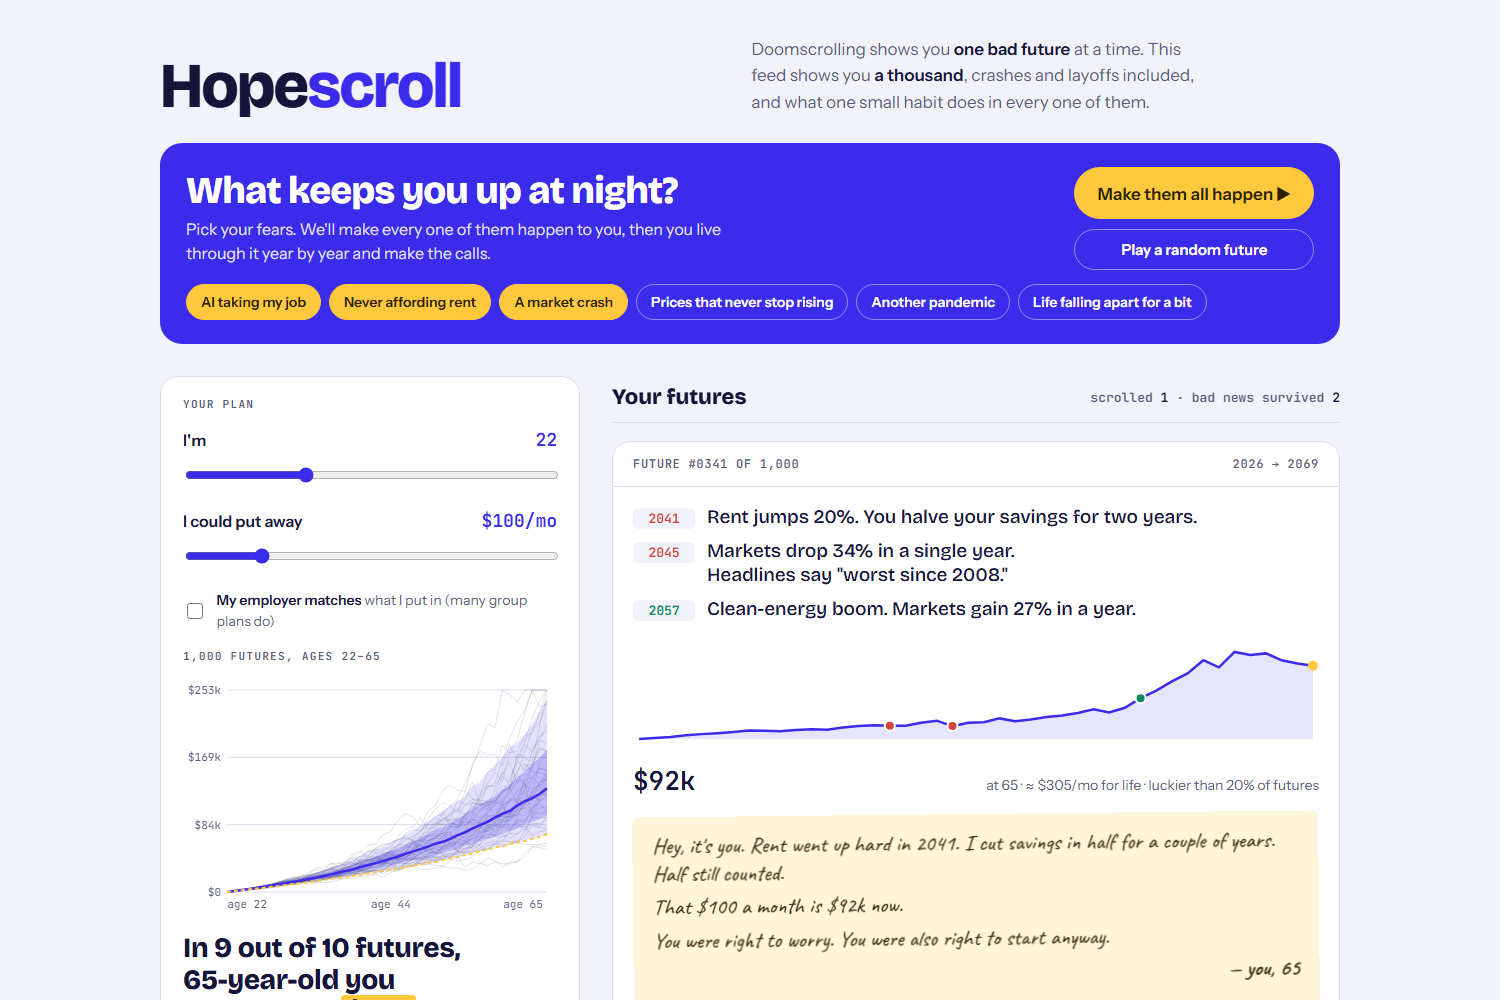
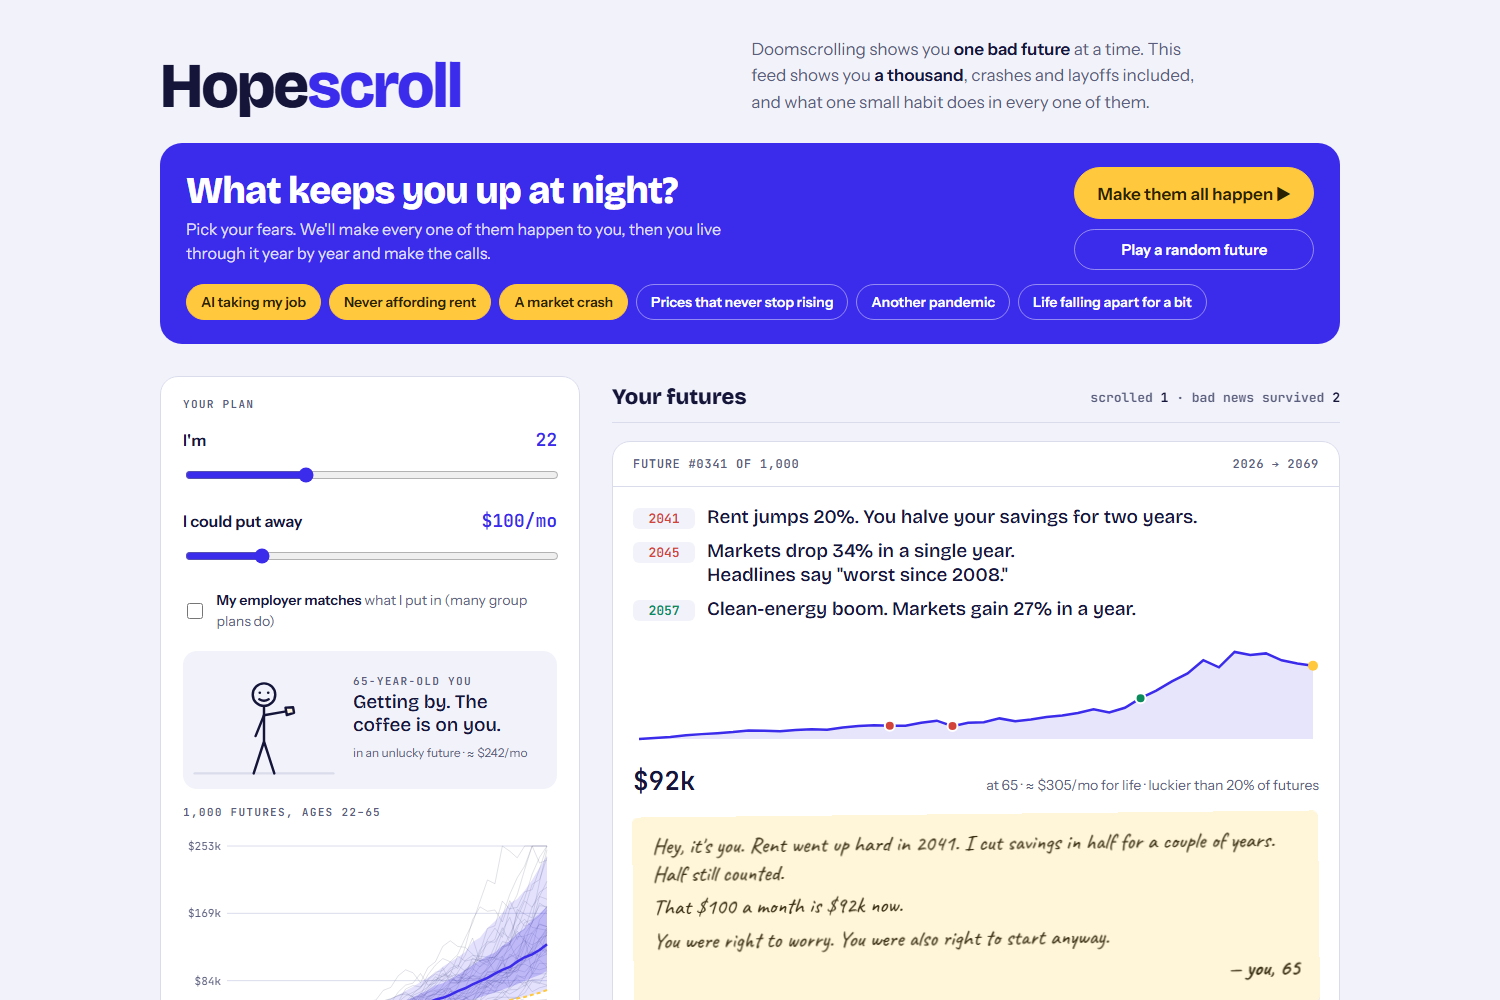
Add 65-year-old you figure that reacts to the plan

Changed region(s): [[0.1227, 0.651, 0.368, 1.0]]

diff --git a/docs/index.html b/docs/index.html
@@ -137,7 +137,30 @@ kbd{font:600 12px var(--f-mono);border:1px solid currentColor;border-radius:5px;
 .badge{font:600 12px var(--f-mono);padding:5px 10px;border-radius:999px;background:var(--sun);color:var(--sun-ink)}
 .lesson{margin:0;color:var(--muted)}
 .copied{font-size:13px;color:var(--good);margin:0}
-@media (prefers-reduced-motion:reduce){.card,.pl-event,.bar i{animation:none}}
+.you65{display:grid;grid-template-columns:150px minmax(0,1fr);gap:14px;align-items:center;background:var(--bg);border-radius:14px;padding:8px 14px 8px 6px}
+.mood{margin:4px 0 2px;font:500 19px/1.2 var(--f-display);text-wrap:balance}
+.fig{width:100%;height:auto;overflow:visible}
+.fig *{fill:none;stroke:var(--ink);stroke-width:2.6;stroke-linecap:round;stroke-linejoin:round;transition:opacity .5s,transform .6s cubic-bezier(.3,1.4,.5,1),d .5s}
+.fig .eye{fill:var(--ink);stroke:none}
+.fig .ground{stroke:var(--line)}
+.fig .sun circle{fill:var(--sun);stroke:none} .fig .rays{stroke:var(--sun)}
+.fig .cloud path:first-child{fill:var(--muted);stroke:none;opacity:.5} .fig .rain{stroke:var(--accent)}
+.fig .plant *{stroke:var(--good)} .fig .plant path:last-child{fill:var(--good)}
+.fig .suit rect{fill:var(--accent);stroke:var(--accent)} .fig .suit path{stroke:var(--accent)}
+.fig .cup{fill:var(--paper);stroke:var(--ink)}
+.fig .arm{transform-origin:80px 60px}
+.fig .sun,.fig .cloud,.fig .plant,.fig .suit,.fig .cup{opacity:0}
+.fig[data-tier="0"] .cloud,.fig[data-tier="1"] .cup,.fig[data-tier="2"] .cup,.fig[data-tier="2"] .sun,.fig[data-tier="2"] .plant,.fig[data-tier="3"] .sun,.fig[data-tier="3"] .plant,.fig[data-tier="3"] .suit{opacity:1}
+.fig .who{animation:bob 3.2s ease-in-out infinite}
+.fig[data-tier="0"] .who{animation-duration:5s;transform:translateY(2px)}
+.fig[data-tier="3"] .who{animation:hop .7s ease-in-out infinite}
+.fig .rain{animation:rain 1s linear infinite}
+.fig .rays{transform-origin:134px 24px;animation:spin 14s linear infinite}
+@keyframes bob{50%{transform:translateY(-2px)}}
+@keyframes hop{50%{transform:translateY(-7px)}}
+@keyframes rain{from{transform:translateY(-3px);opacity:1}to{transform:translateY(5px);opacity:0}}
+@keyframes spin{to{transform:rotate(360deg)}}
+@media (prefers-reduced-motion:reduce){.card,.pl-event,.bar i,.fig *{animation:none!important}}
 </style></head><body>
 
 <div class="wrap">
@@ -167,6 +190,25 @@ kbd{font:600 12px var(--f-mono);border:1px solid currentColor;border-radius:5px;
     <input id="amt" type="range" min="5" max="500" step="5" value="100">
   </div>
   <label class="toggle"><input id="match" type="checkbox"> <span><b>My employer matches</b> what I put in (many group plans do)</span></label>
+
+  <div class="you65">
+    <svg id="fig" class="fig" viewBox="0 0 160 130" role="img" aria-labelledby="mood" data-tier="1">
+      <g class="sun"><circle cx="134" cy="24" r="11"/><path class="rays" d="M134 6v-4M134 46v-4M116 24h-4M156 24h-4M121 11l-3-3M147 37l3 3M147 11l3-3M121 37l-3 3"/></g>
+      <g class="cloud"><path d="M18 32a9 9 0 0 1 16-7a8 8 0 0 1 15 3a6 6 0 0 1 0 12h-28a6 6 0 0 1-3-8z"/><path class="rain" d="M24 46l-2 6M34 46l-2 6M44 46l-2 6"/></g>
+      <line class="ground" x1="6" y1="122" x2="154" y2="122"/>
+      <g class="plant"><path d="M28 122v-16"/><path d="M28 112c-7-1-11-6-10-12c7 1 11 6 10 12zM28 108c7-1 11-6 10-12c-7 1-11 6-10 12z"/></g>
+      <g class="suit"><rect x="108" y="100" width="22" height="22" rx="3"/><path d="M114 100v-5h10v5"/></g>
+      <g class="who">
+        <circle cx="80" cy="38" r="12"/>
+        <circle class="eye" cx="75.5" cy="36" r="1.4"/><circle class="eye" cx="84.5" cy="36" r="1.4"/>
+        <path id="mouth" class="mouth" d="M75 43 Q80 46 85 43"/>
+        <path d="M80 50v38M80 88l-11 34M80 88l11 34"/>
+        <g id="armL" class="arm"><path d="M80 60v24"/></g>
+        <g id="armR" class="arm"><path d="M80 60v24"/><path class="cup" d="M76 84h8l-1 8h-6z"/></g>
+      </g>
+    </svg>
+    <div><div class="eyebrow">65-year-old you</div><p id="mood" class="mood"></p><small class="fine">in an unlucky future · ≈ <span id="moodInc"></span>/mo</small></div>
+  </div>
 
   <div class="eyebrow">1,000 futures, ages <span id="ageA"></span>–65</div>
   <canvas class="fan" id="fan" role="img" aria-label="Fan chart of savings across 1,000 simulated futures"></canvas>
@@ -274,9 +316,22 @@ function recompute(){
   $('insight').innerHTML=S.p10>S.late50
     ? `<b>Starting now beats luck.</b> Your unluckiest 10% of futures still end higher than the <i>typical</i> future where you wait until ${S.age+10} to start (${kmoney(S.late50)}).`
     : `<b>Time is the lever.</b> Waiting until ${S.age+10} to start turns the typical future from ${kmoney(S.p50)} into ${kmoney(S.late50)}, with the same $${S.amt}/mo.`;
-  drawFan();
+  drawFan();setMood(S.p10*.04/12);
   // refresh numbers already in the feed
   document.querySelectorAll('.card[data-w]').forEach(fillCard);
+}
+
+// ---------- 65-year-old you: reacts to the unlucky-future monthly income ----------
+const MOODS=[ // [arm L, arm R, mouth control y, line]
+ [12,-12,40,'Still picking up shifts. Not doomed, just tired.'],
+ [22,-100,46,'Getting by. The coffee is on you.'],
+ [35,-100,48,'Comfortable. Even the plants are thriving.'],
+ [125,-125,50,'Booked the trip. Then booked another one.']];
+function setMood(m){
+  const t=m<120?0:m<350?1:m<900?2:3,[l,r,y,txt]=MOODS[t],f=$('fig');
+  f.dataset.tier=t;$('armL').style.transform=`rotate(${l}deg)`;$('armR').style.transform=`rotate(${r}deg)`;
+  $('mouth').setAttribute('d',`M75 43 Q80 ${y} 85 43`);$('mouth').style.d=`path("M75 43 Q80 ${y} 85 43")`;
+  $('mood').textContent=txt;$('moodInc').textContent=money(m);
 }
 
 // ---------- Feed ----------

diff --git a/index.html b/index.html
@@ -137,7 +137,30 @@ kbd{font:600 12px var(--f-mono);border:1px solid currentColor;border-radius:5px;
 .badge{font:600 12px var(--f-mono);padding:5px 10px;border-radius:999px;background:var(--sun);color:var(--sun-ink)}
 .lesson{margin:0;color:var(--muted)}
 .copied{font-size:13px;color:var(--good);margin:0}
-@media (prefers-reduced-motion:reduce){.card,.pl-event,.bar i{animation:none}}
+.you65{display:grid;grid-template-columns:150px minmax(0,1fr);gap:14px;align-items:center;background:var(--bg);border-radius:14px;padding:8px 14px 8px 6px}
+.mood{margin:4px 0 2px;font:500 19px/1.2 var(--f-display);text-wrap:balance}
+.fig{width:100%;height:auto;overflow:visible}
+.fig *{fill:none;stroke:var(--ink);stroke-width:2.6;stroke-linecap:round;stroke-linejoin:round;transition:opacity .5s,transform .6s cubic-bezier(.3,1.4,.5,1),d .5s}
+.fig .eye{fill:var(--ink);stroke:none}
+.fig .ground{stroke:var(--line)}
+.fig .sun circle{fill:var(--sun);stroke:none} .fig .rays{stroke:var(--sun)}
+.fig .cloud path:first-child{fill:var(--muted);stroke:none;opacity:.5} .fig .rain{stroke:var(--accent)}
+.fig .plant *{stroke:var(--good)} .fig .plant path:last-child{fill:var(--good)}
+.fig .suit rect{fill:var(--accent);stroke:var(--accent)} .fig .suit path{stroke:var(--accent)}
+.fig .cup{fill:var(--paper);stroke:var(--ink)}
+.fig .arm{transform-origin:80px 60px}
+.fig .sun,.fig .cloud,.fig .plant,.fig .suit,.fig .cup{opacity:0}
+.fig[data-tier="0"] .cloud,.fig[data-tier="1"] .cup,.fig[data-tier="2"] .cup,.fig[data-tier="2"] .sun,.fig[data-tier="2"] .plant,.fig[data-tier="3"] .sun,.fig[data-tier="3"] .plant,.fig[data-tier="3"] .suit{opacity:1}
+.fig .who{animation:bob 3.2s ease-in-out infinite}
+.fig[data-tier="0"] .who{animation-duration:5s;transform:translateY(2px)}
+.fig[data-tier="3"] .who{animation:hop .7s ease-in-out infinite}
+.fig .rain{animation:rain 1s linear infinite}
+.fig .rays{transform-origin:134px 24px;animation:spin 14s linear infinite}
+@keyframes bob{50%{transform:translateY(-2px)}}
+@keyframes hop{50%{transform:translateY(-7px)}}
+@keyframes rain{from{transform:translateY(-3px);opacity:1}to{transform:translateY(5px);opacity:0}}
+@keyframes spin{to{transform:rotate(360deg)}}
+@media (prefers-reduced-motion:reduce){.card,.pl-event,.bar i,.fig *{animation:none!important}}
 </style>
 
 <div class="wrap">
@@ -167,6 +190,25 @@ kbd{font:600 12px var(--f-mono);border:1px solid currentColor;border-radius:5px;
     <input id="amt" type="range" min="5" max="500" step="5" value="100">
   </div>
   <label class="toggle"><input id="match" type="checkbox"> <span><b>My employer matches</b> what I put in (many group plans do)</span></label>
+
+  <div class="you65">
+    <svg id="fig" class="fig" viewBox="0 0 160 130" role="img" aria-labelledby="mood" data-tier="1">
+      <g class="sun"><circle cx="134" cy="24" r="11"/><path class="rays" d="M134 6v-4M134 46v-4M116 24h-4M156 24h-4M121 11l-3-3M147 37l3 3M147 11l3-3M121 37l-3 3"/></g>
+      <g class="cloud"><path d="M18 32a9 9 0 0 1 16-7a8 8 0 0 1 15 3a6 6 0 0 1 0 12h-28a6 6 0 0 1-3-8z"/><path class="rain" d="M24 46l-2 6M34 46l-2 6M44 46l-2 6"/></g>
+      <line class="ground" x1="6" y1="122" x2="154" y2="122"/>
+      <g class="plant"><path d="M28 122v-16"/><path d="M28 112c-7-1-11-6-10-12c7 1 11 6 10 12zM28 108c7-1 11-6 10-12c-7 1-11 6-10 12z"/></g>
+      <g class="suit"><rect x="108" y="100" width="22" height="22" rx="3"/><path d="M114 100v-5h10v5"/></g>
+      <g class="who">
+        <circle cx="80" cy="38" r="12"/>
+        <circle class="eye" cx="75.5" cy="36" r="1.4"/><circle class="eye" cx="84.5" cy="36" r="1.4"/>
+        <path id="mouth" class="mouth" d="M75 43 Q80 46 85 43"/>
+        <path d="M80 50v38M80 88l-11 34M80 88l11 34"/>
+        <g id="armL" class="arm"><path d="M80 60v24"/></g>
+        <g id="armR" class="arm"><path d="M80 60v24"/><path class="cup" d="M76 84h8l-1 8h-6z"/></g>
+      </g>
+    </svg>
+    <div><div class="eyebrow">65-year-old you</div><p id="mood" class="mood"></p><small class="fine">in an unlucky future · ≈ <span id="moodInc"></span>/mo</small></div>
+  </div>
 
   <div class="eyebrow">1,000 futures, ages <span id="ageA"></span>–65</div>
   <canvas class="fan" id="fan" role="img" aria-label="Fan chart of savings across 1,000 simulated futures"></canvas>
@@ -274,9 +316,22 @@ function recompute(){
   $('insight').innerHTML=S.p10>S.late50
     ? `<b>Starting now beats luck.</b> Your unluckiest 10% of futures still end higher than the <i>typical</i> future where you wait until ${S.age+10} to start (${kmoney(S.late50)}).`
     : `<b>Time is the lever.</b> Waiting until ${S.age+10} to start turns the typical future from ${kmoney(S.p50)} into ${kmoney(S.late50)}, with the same $${S.amt}/mo.`;
-  drawFan();
+  drawFan();setMood(S.p10*.04/12);
   // refresh numbers already in the feed
   document.querySelectorAll('.card[data-w]').forEach(fillCard);
+}
+
+// ---------- 65-year-old you: reacts to the unlucky-future monthly income ----------
+const MOODS=[ // [arm L, arm R, mouth control y, line]
+ [12,-12,40,'Still picking up shifts. Not doomed, just tired.'],
+ [22,-100,46,'Getting by. The coffee is on you.'],
+ [35,-100,48,'Comfortable. Even the plants are thriving.'],
+ [125,-125,50,'Booked the trip. Then booked another one.']];
+function setMood(m){
+  const t=m<120?0:m<350?1:m<900?2:3,[l,r,y,txt]=MOODS[t],f=$('fig');
+  f.dataset.tier=t;$('armL').style.transform=`rotate(${l}deg)`;$('armR').style.transform=`rotate(${r}deg)`;
+  $('mouth').setAttribute('d',`M75 43 Q80 ${y} 85 43`);$('mouth').style.d=`path("M75 43 Q80 ${y} 85 43")`;
+  $('mood').textContent=txt;$('moodInc').textContent=money(m);
 }
 
 // ---------- Feed ----------
